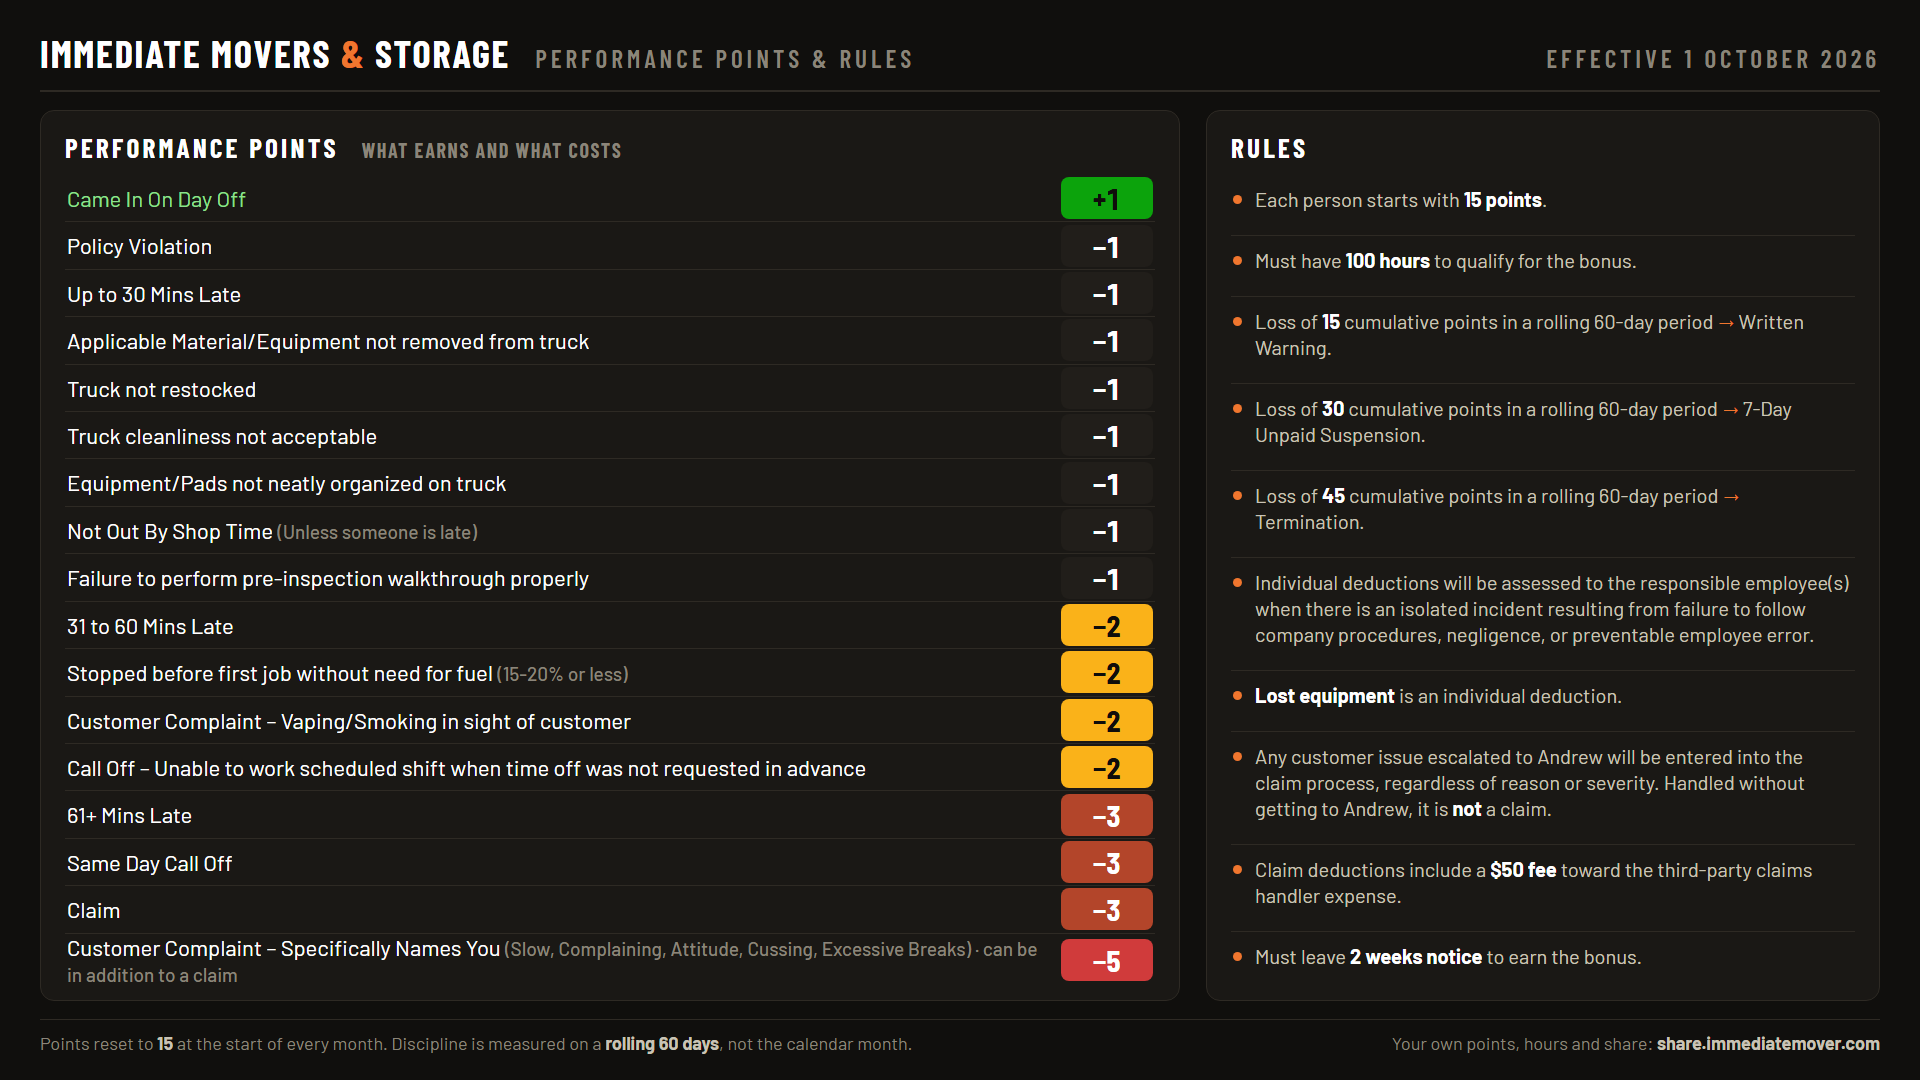
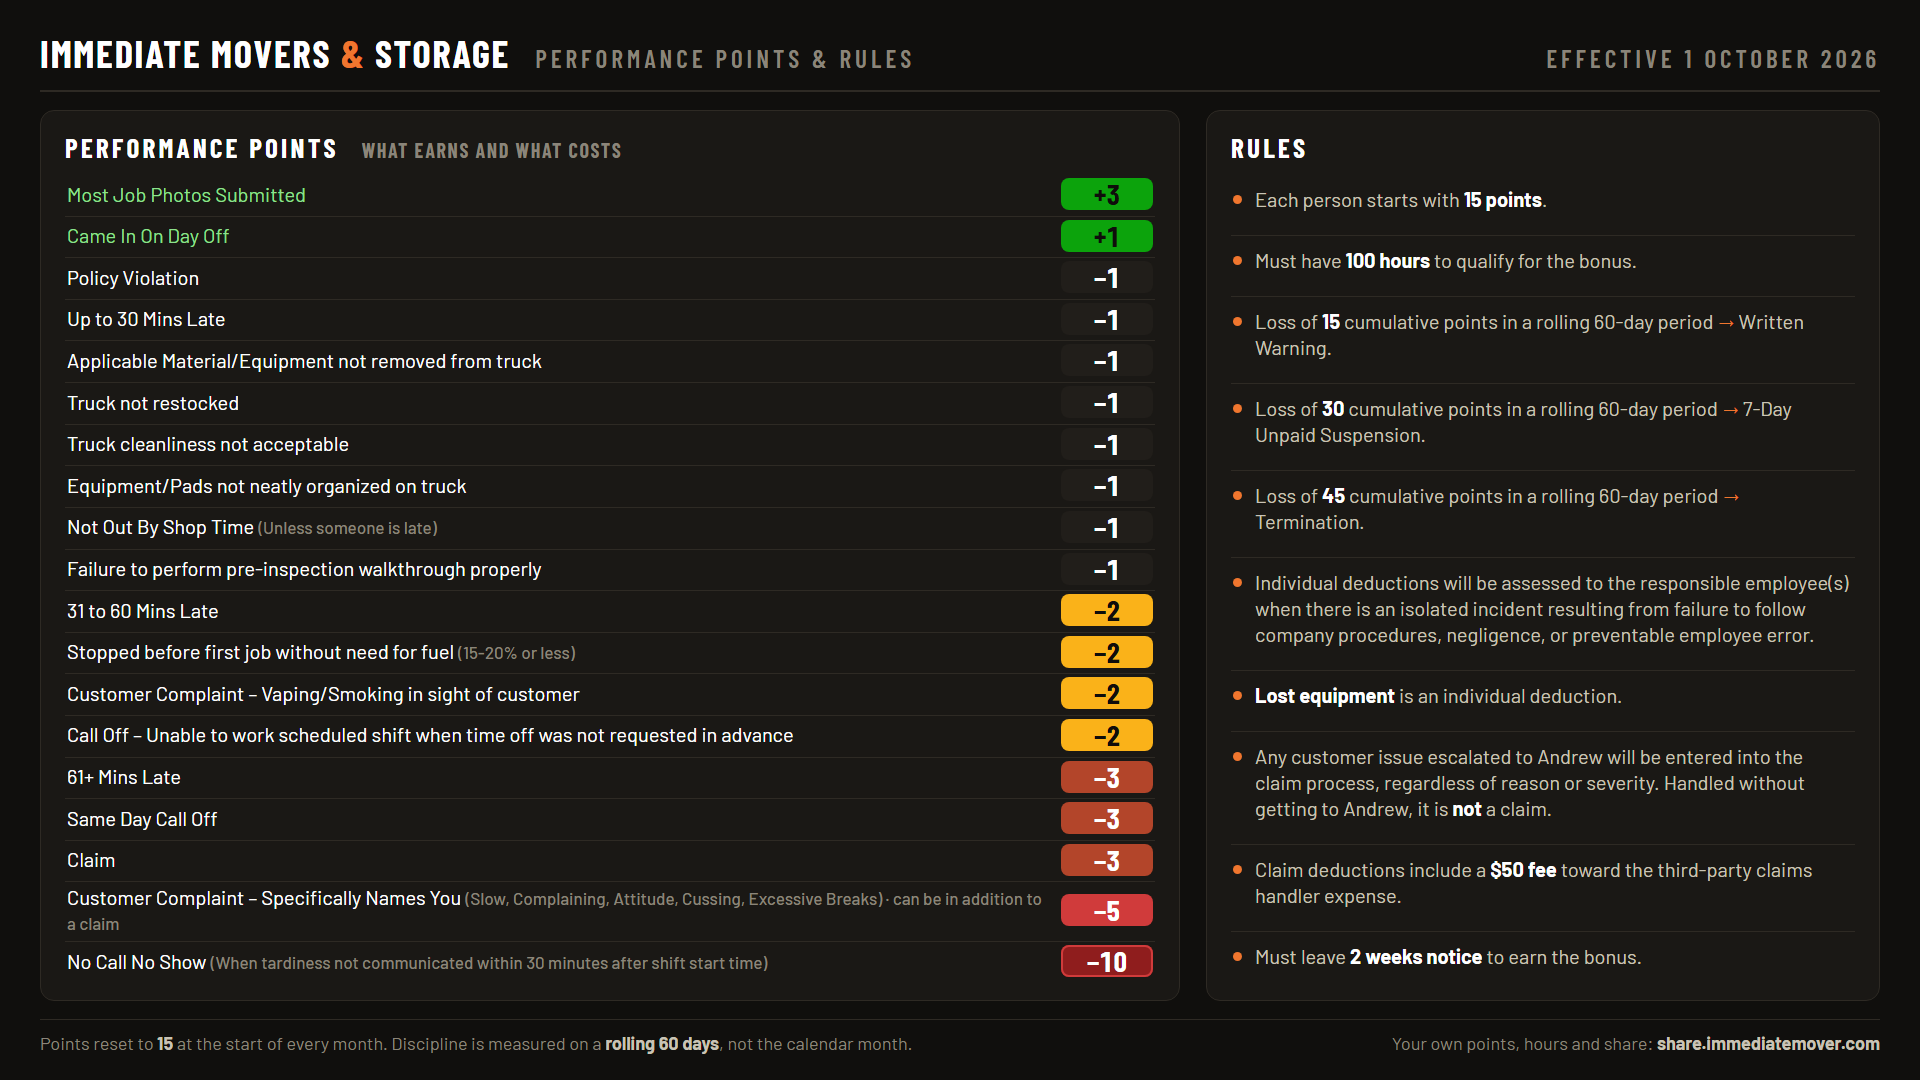
Andrew's two new rules: most job photos +3, no call no show -10
Andrew, 2 October 2026. Added everywhere the rules are represented rather than
only on the sheet he asked about:

  breakroom  the printed sheet and the PNG that goes on the TV
  admin      both options in the point reason list
  tardy.js   no call no show is now read out of Matthew's log

That last one is the part that makes it real. Without it Matthew typing "NO
CALL NO SHOW" into the tardy log would be reported as an unreadable cell, so
the worst penalty on the sheet would be the one thing the system could not
count. "NCNS" and "No Call/No Show" are read too, and it is deliberately
matched before "call off" so a -10 can never be scored as a -2.

It joins the call offs in the per-person-per-date map rather than sitting
beside them, because a man who never turned up is absent once however many
ways it gets written down. Marked a call off in one tab and a no call no show
in the other, he loses 10 for that morning, not 12.

The sheet needed a layout fix to take nineteen rows. Row height is set by the
number in the pill, not the text, so the default leading on a 30px line box was
most of it: the last three rules fell off the card. Reduced to 28px with
line-height 1, measured rather than guessed — 758px of content in an 805px
column. The figures are still large enough to read across the break room.

Not changed: revenue-share-board.html at the repository root. It is the
3 September prototype, carries no rules list and nothing references it.

diff --git a/src/sync/tardy.js b/src/sync/tardy.js
@@ -9,6 +9,8 @@
  *   truck not out   -1   each name listed for that day
  *   call off        -2
  *   same day call off -3
+ *   no call no show  -10 Andrew, 2 October 2026: lateness not communicated
+ *                        within 30 minutes of shift start
  *
  * Andrew graded lateness on 28 September 2026. Until then anything Matthew
  * logged cost a flat -1, so a minute late and an hour late were the same
@@ -32,7 +34,7 @@ import { matchableRoster, ignoredNames } from "../roster.js";
 import { nameMatcher } from "./hours.js";
 
 export const TAG = "tardy-log";
-export const PENALTY = { truck: -1, calloff: -2, samedaycalloff: -3 };
+export const PENALTY = { truck: -1, calloff: -2, samedaycalloff: -3, nocallnoshow: -10 };
 
 /* The bands start on 1 October 2026, at Andrew's word. This date matters more
    than it looks: the tardy log is rebuilt from Matthew's sheet on every run,
@@ -106,8 +108,14 @@ export function parseLogGrid(grid, { kind, year, month }) {
       const v = text(row[i]);
       if (!v || v === "0") continue;
       const date = `${year}-${pad(month)}-${pad(day)}`;
-      /* "same day" has to be looked for first — it contains "call off" */
-      if (/same\s*-?\s*day.*call\s*-?\s*off/i.test(v)) {
+      /* Order matters here. "Same day" has to be looked for before "call off"
+         because it contains it, and no call no show has to be looked for
+         before both: "no call / no show" does not contain "call off" today,
+         but it is one careless abbreviation away from doing so, and silently
+         scoring a -10 as a -2 is the kind of mistake nobody would catch. */
+      if (/no\s*[-\/,]?\s*call\s*[-\/,]?\s*no\s*[-\/,]?\s*show|^ncns$/i.test(v)) {
+        out.entries.push({ name, date, type: "nocallnoshow" });
+      } else if (/same\s*-?\s*day.*call\s*-?\s*off/i.test(v)) {
         out.entries.push({ name, date, type: "samedaycalloff" });
       } else if (/call\s*-?\s*off/i.test(v)) {
         out.entries.push({ name, date, type: "calloff" });
@@ -128,14 +136,19 @@ export function toEvents(entries, roster) {
 
   /* One absence is one deduction. A call off can appear in both tabs, and the
      same one may be written plainly in one and as a same-day in the other, so
-     they are collected per person per date and the worse wording wins. */
+     they are collected per person per date and the worse wording wins.
+
+     No call no show belongs in here rather than beside it: a man who never
+     turned up is absent once, however many ways that gets written down. If it
+     were counted separately, someone marked a call off in one tab and a no
+     call no show in the other would lose 12 points for one morning. */
   const callOffs = new Map();
 
   for (const e of entries) {
     const who = match(e.name);
     if (!who) { unmatched.add(e.name); continue; }
 
-    if (e.type === "calloff" || e.type === "samedaycalloff") {
+    if (e.type === "calloff" || e.type === "samedaycalloff" || e.type === "nocallnoshow") {
       const key  = `${who.id}|${e.date}`;
       const seen = callOffs.get(key);
       if (!seen || PENALTY[e.type] < PENALTY[seen.type]) {
@@ -166,7 +179,8 @@ export function toEvents(entries, roster) {
       occurred_on: c.date,
       type:        c.type,
       delta:       PENALTY[c.type],
-      reason: c.type === "samedaycalloff" ? "Same day call off (tardy log)"
+      reason: c.type === "nocallnoshow"   ? "No call no show (tardy log)"
+            : c.type === "samedaycalloff" ? "Same day call off (tardy log)"
             :                               "Call off (tardy log)"
     });
   }
@@ -197,6 +211,7 @@ export function summarise({ period, events, unmatched, pastCrew = [], warnings }
   let s = `${MONTHS[m - 1][0].toUpperCase() + MONTHS[m - 1].slice(1)}: ` +
           `${n("late")} late, ${n("truck")} trucks late, ${n("calloff")} call off${n("calloff") === 1 ? "" : "s"}` +
           (n("samedaycalloff") ? `, ${n("samedaycalloff")} same day` : "") +
+          (n("nocallnoshow") ? `, ${n("nocallnoshow")} no call no show` : "") +
           ` → ${total} points across ${people} ${people === 1 ? "person" : "people"}`;
   if (unmatched.length) s += `; NOT MATCHED: ${unmatched.join(", ")}`;
   if (pastCrew.length) s += `; past crew, no points: ${pastCrew.join(", ")}`;

diff --git a/breakroom/points-and-rules.html b/breakroom/points-and-rules.html
@@ -41,19 +41,35 @@
   .card h2 span{color:var(--ink-3);font-size:20px;letter-spacing:.08em;margin-left:14px}
 
   /* points */
-  .rows{display:flex;flex-direction:column;flex:1;min-height:0}
+  /* Equal slices worked while every line fitted on one row. Adding the +3 and
+     the −10 took it to nineteen, and the two-line rules then overflowed their
+     slice and printed on top of the row below — the complaint rule ran straight
+     through No Call No Show. So these size to their content now and share the
+     slack, the same way the rules column already did. */
+  .rows{display:flex;flex-direction:column;flex:1;min-height:0;
+    justify-content:space-between}
   .r{display:grid;grid-template-columns:1fr 92px;align-items:center;gap:16px;
-    flex:1 1 0;min-height:0;border-top:1px solid var(--seam);padding:0 2px}
+    flex:0 0 auto;border-top:1px solid var(--seam);padding:3px 2px}
   .r:first-child{border-top:0}
-  .r .t{font-size:22px;line-height:1.2;color:var(--ink)}
-  .r .t b{color:var(--ink-3);font-weight:500;font-size:19px}
-  .r .p{font-family:var(--cond);font-weight:700;font-size:30px;text-align:center;
-    border-radius:8px;padding:3px 0;font-variant-numeric:tabular-nums}
+  .r .t{font-size:20px;line-height:1.25;color:var(--ink)}
+  .r .t b{color:var(--ink-3);font-weight:500;font-size:17px}
+  /* The number sets the height of every row, not the words beside it — which
+     is why nineteen rows wanted 976px in an 805px column and the bottom three
+     fell off the card. Default leading on a 30px line box was most of it, so
+     the fix is line-height, not a smaller number: the figure stays big enough
+     to read from across the break room. */
+  .r .p{font-family:var(--cond);font-weight:700;font-size:28px;line-height:1;
+    text-align:center;border-radius:8px;padding:2px 0;
+    font-variant-numeric:tabular-nums}
   .plus  .p{color:#0f0d0b;background:var(--good)}
   .one   .p{color:var(--ink);background:var(--panel-2)}
   .two   .p{color:#0f0d0b;background:var(--warn)}
   .three .p{color:#fff;background:#b3452a}
   .five  .p{color:#fff;background:var(--crit)}
+  /* Ten is its own colour on purpose. No call no show costs double the worst
+     thing above it, and a crew reading this from across the room should see
+     that before they read the number. */
+  .ten   .p{color:#fff;background:#8f1d1d;box-shadow:inset 0 0 0 2px var(--crit)}
   .plus .t{color:#8fe08f}
 
   /* rules */
@@ -93,6 +109,7 @@
     <div class="card">
       <h2>Performance Points <span>What earns and what costs</span></h2>
       <div class="rows">
+        <div class="r plus"><div class="t">Most Job Photos Submitted</div><div class="p">+3</div></div>
         <div class="r plus"><div class="t">Came In On Day Off</div><div class="p">+1</div></div>
         <div class="r one"><div class="t">Policy Violation</div><div class="p">&minus;1</div></div>
         <div class="r one"><div class="t">Up to 30 Mins Late</div><div class="p">&minus;1</div></div>
@@ -110,6 +127,7 @@
         <div class="r three"><div class="t">Same Day Call Off</div><div class="p">&minus;3</div></div>
         <div class="r three"><div class="t">Claim</div><div class="p">&minus;3</div></div>
         <div class="r five"><div class="t">Customer Complaint &ndash; Specifically Names You <b>(Slow, Complaining, Attitude, Cussing, Excessive Breaks) &middot; can be in addition to a claim</b></div><div class="p">&minus;5</div></div>
+        <div class="r ten"><div class="t">No Call No Show <b>(When tardiness not communicated within 30 minutes after shift start time)</b></div><div class="p">&minus;10</div></div>
       </div>
     </div>
 

diff --git a/scripts/tardy-check.js b/scripts/tardy-check.js
@@ -65,8 +65,9 @@ console.log("\n3. TURNING IT INTO POINTS");
 const truck = parseLogGrid(TRUCK, { kind: "truck", year: 2026, month: 9 });
 const { events, unmatched } = toEvents([...late.entries, ...truck.entries], ROSTER);
 const pts = id => events.filter(e => e.employee_id === id).reduce((a, e) => a + e.delta, 0);
-check("truck -1, call off -2, same day call off -3",
-  PENALTY.truck === -1 && PENALTY.calloff === -2 && PENALTY.samedaycalloff === -3);
+check("truck -1, call off -2, same day call off -3, no call no show -10",
+  PENALTY.truck === -1 && PENALTY.calloff === -2 && PENALTY.samedaycalloff === -3
+  && PENALTY.nocallnoshow === -10);
 
 console.log("\n3a. THE MINUTE BANDS, FROM 1 OCTOBER");
 const oct = "2026-10-05";
@@ -100,6 +101,32 @@ check("a same day call off beats a plain one written in the other tab",
   && events.some(e => e.employee_id === "dana" && e.type === "samedaycalloff"));
 check("someone not on the roster is reported, not dropped silently", unmatched.includes("Nobody Here"));
 check("reasons say where they came from", events.every(e => /tardy log/.test(e.reason)), events[0].reason);
+
+/* Andrew added this on 2 October: lateness not communicated within 30 minutes
+   of shift start. It is the only thing on the sheet that costs double digits,
+   so it has to be read exactly and it must never be mistaken for a call off. */
+console.log("\n3d. NO CALL NO SHOW");
+{
+  const ncns = w => parseLogGrid(csv(`Employee,9/1,9/2\nSam,${w},`),
+    { kind: "late", year: 2026, month: 9 }).entries[0];
+  check("\"NO CALL NO SHOW\" is read as one", ncns("NO CALL NO SHOW")?.type === "nocallnoshow");
+  check("\"No Call/No Show\" too", ncns("No Call/No Show")?.type === "nocallnoshow");
+  check("\"no-call-no-show\" too", ncns("no-call-no-show")?.type === "nocallnoshow");
+  check("\"NCNS\" too", ncns("NCNS")?.type === "nocallnoshow");
+  check("it is never mistaken for a plain call off", ncns("NO CALL NO SHOW")?.type !== "calloff");
+  check("a plain call off is still a call off", ncns("CALL OFF")?.type === "calloff");
+
+  /* One morning, one absence. Written both ways across the two tabs it must
+     cost 10, not 12. */
+  const both = toEvents([
+    { name: "Sam", date: "2026-09-02", type: "calloff" },
+    { name: "Sam", date: "2026-09-02", type: "nocallnoshow" }
+  ], ROSTER);
+  check("the same absence written two ways counts once",
+    both.events.length === 1, `${both.events.length} event(s)`);
+  check("and the worse wording wins", both.events[0].delta === -10, `${both.events[0].delta}`);
+  check("the reason names it", /no call no show/i.test(both.events[0].reason), both.events[0].reason);
+}
 
 console.log("\n4. REFUSING WHAT IT CAN'T READ");
 const renamed = parseLogGrid(csv("Name,9/1,9/2\nSam,3,"), { kind: "late", year: 2026, month: 9 });

diff --git a/public/admin.html b/public/admin.html
@@ -269,7 +269,7 @@ Tyler Johnston  44.25"></textarea>
 
     <div class="panel">
       <h2>Points</h2>
-      <p class="dek"><b>Late, truck not out on time and call offs come from Matthew's tardy log</b> &mdash; don't add those here too, or they count twice. Everything else is recorded here, including <b>came in on day off</b>, which is now entered by hand and nothing else can work out: the schedule knows who was on a job, not whose day off it was.</p>
+      <p class="dek"><b>Late, truck not out on time, call offs and no call no shows come from Matthew's tardy log</b> &mdash; don't add those here too, or they count twice. Everything else is recorded here, including <b>came in on day off</b>, which is now entered by hand and nothing else can work out: the schedule knows who was on a job, not whose day off it was.</p>
       <div class="frow">
         <div style="max-width:130px"><label for="ptDate">Date</label><input type="date" id="ptDate"></div>
         <div><label for="ptWho">Who</label><select id="ptWho"></select></div>
@@ -290,6 +290,7 @@ Tyler Johnston  44.25"></textarea>
                  Lost equipment has come off this list. Andrew's rules now make it
                  an individual deduction, which is money off one person, so it
                  belongs in the panel below rather than being a point as well. -->
+            <option value="3">Most job photos submitted (+3)</option>
             <option value="1">Came in on day off (+1)</option>
             <option value="-1">Policy violation (−1)</option>
             <option value="-1">Up to 30 mins late (−1)</option>
@@ -307,6 +308,7 @@ Tyler Johnston  44.25"></textarea>
             <option value="-3">Same day call off (−3)</option>
             <option value="-3">Claim (−3)</option>
             <option value="-5">Customer complaint — specifically names you (−5)</option>
+            <option value="-10">No call no show — tardiness not communicated within 30 minutes of shift start (−10)</option>
           </select>
         </div>
         <button id="ptSave">Add</button>

diff --git a/breakroom/README.md b/breakroom/README.md
@@ -1,8 +1,17 @@
 # Break-room sheet
 
 `points-and-rules.html` is the source; `points-and-rules.png` is what goes on the
-TV. The wording is Andrew's own, from 28 September 2026, copied exactly, because
-this is the sheet the crew are held to.
+TV. The wording is Andrew's own, from 28 September 2026 and 2 October 2026,
+copied exactly, because this is the sheet the crew are held to.
+
+Nineteen rows is close to the limit of the left column. The row height is set by
+the number in the pill, not the words beside it, so if another rule is added and
+the bottom of the list disappears behind the footer, look at `.r .p` before
+touching the text. Serving the folder and measuring is quicker than guessing:
+
+    node -e "require('http').createServer((q,s)=>s.end(require('fs').readFileSync('points-and-rules.html'))).listen(3100)"
+
+then compare `.rows` height against the sum of its children in the console.
 
 To regenerate after a rule changes, edit the HTML and run:
 
